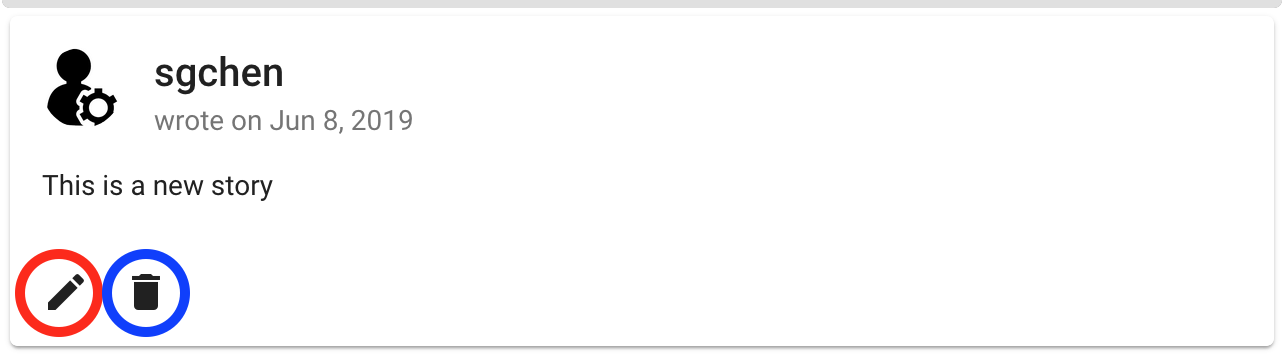
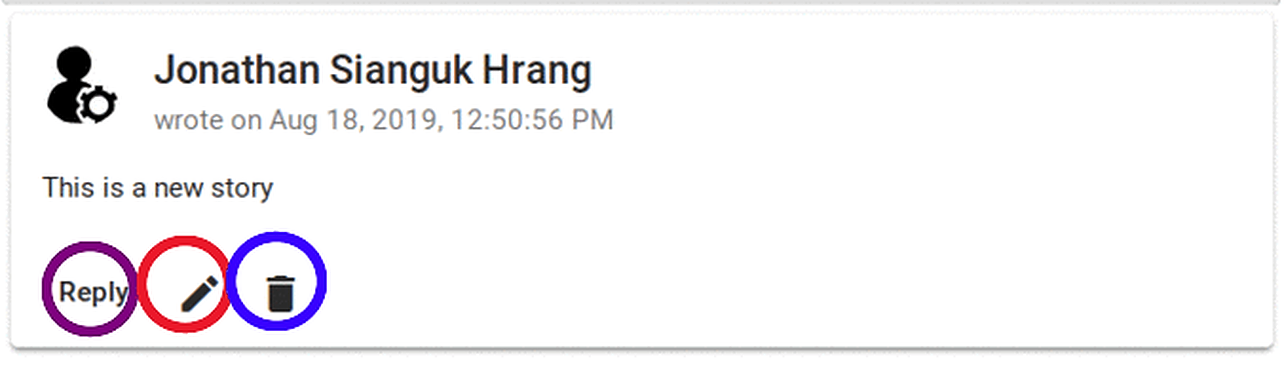
update pic and info

diff --git a/pages/manual/planet/news.md b/pages/manual/planet/news.md
@@ -14,7 +14,7 @@ After navigating to the `News` Page, you will be able to browse previous stories
 
 ![Adding A Story](images/planet-news-post.png)
 
-## Editing or Deleting Stories
-You can edit a story by clicking the pencil icon on the post (Red circle) and delete a story by clicking the garbage can icon (Blue circle)
+## Reply, Edit and Delete Stories
+You can reply a story by clicking reply icon on the post (Purple circle), edit a story by clicking the pencil icon (Red circle) and delete a story by clicking the garage can icon (Blue circle)
 
-![Editing or Deleting Stories](images/planet-news-edit-delete.png)
+![Reply, Edit and Delete Stories](images/planet-news-edit-delete.png)
